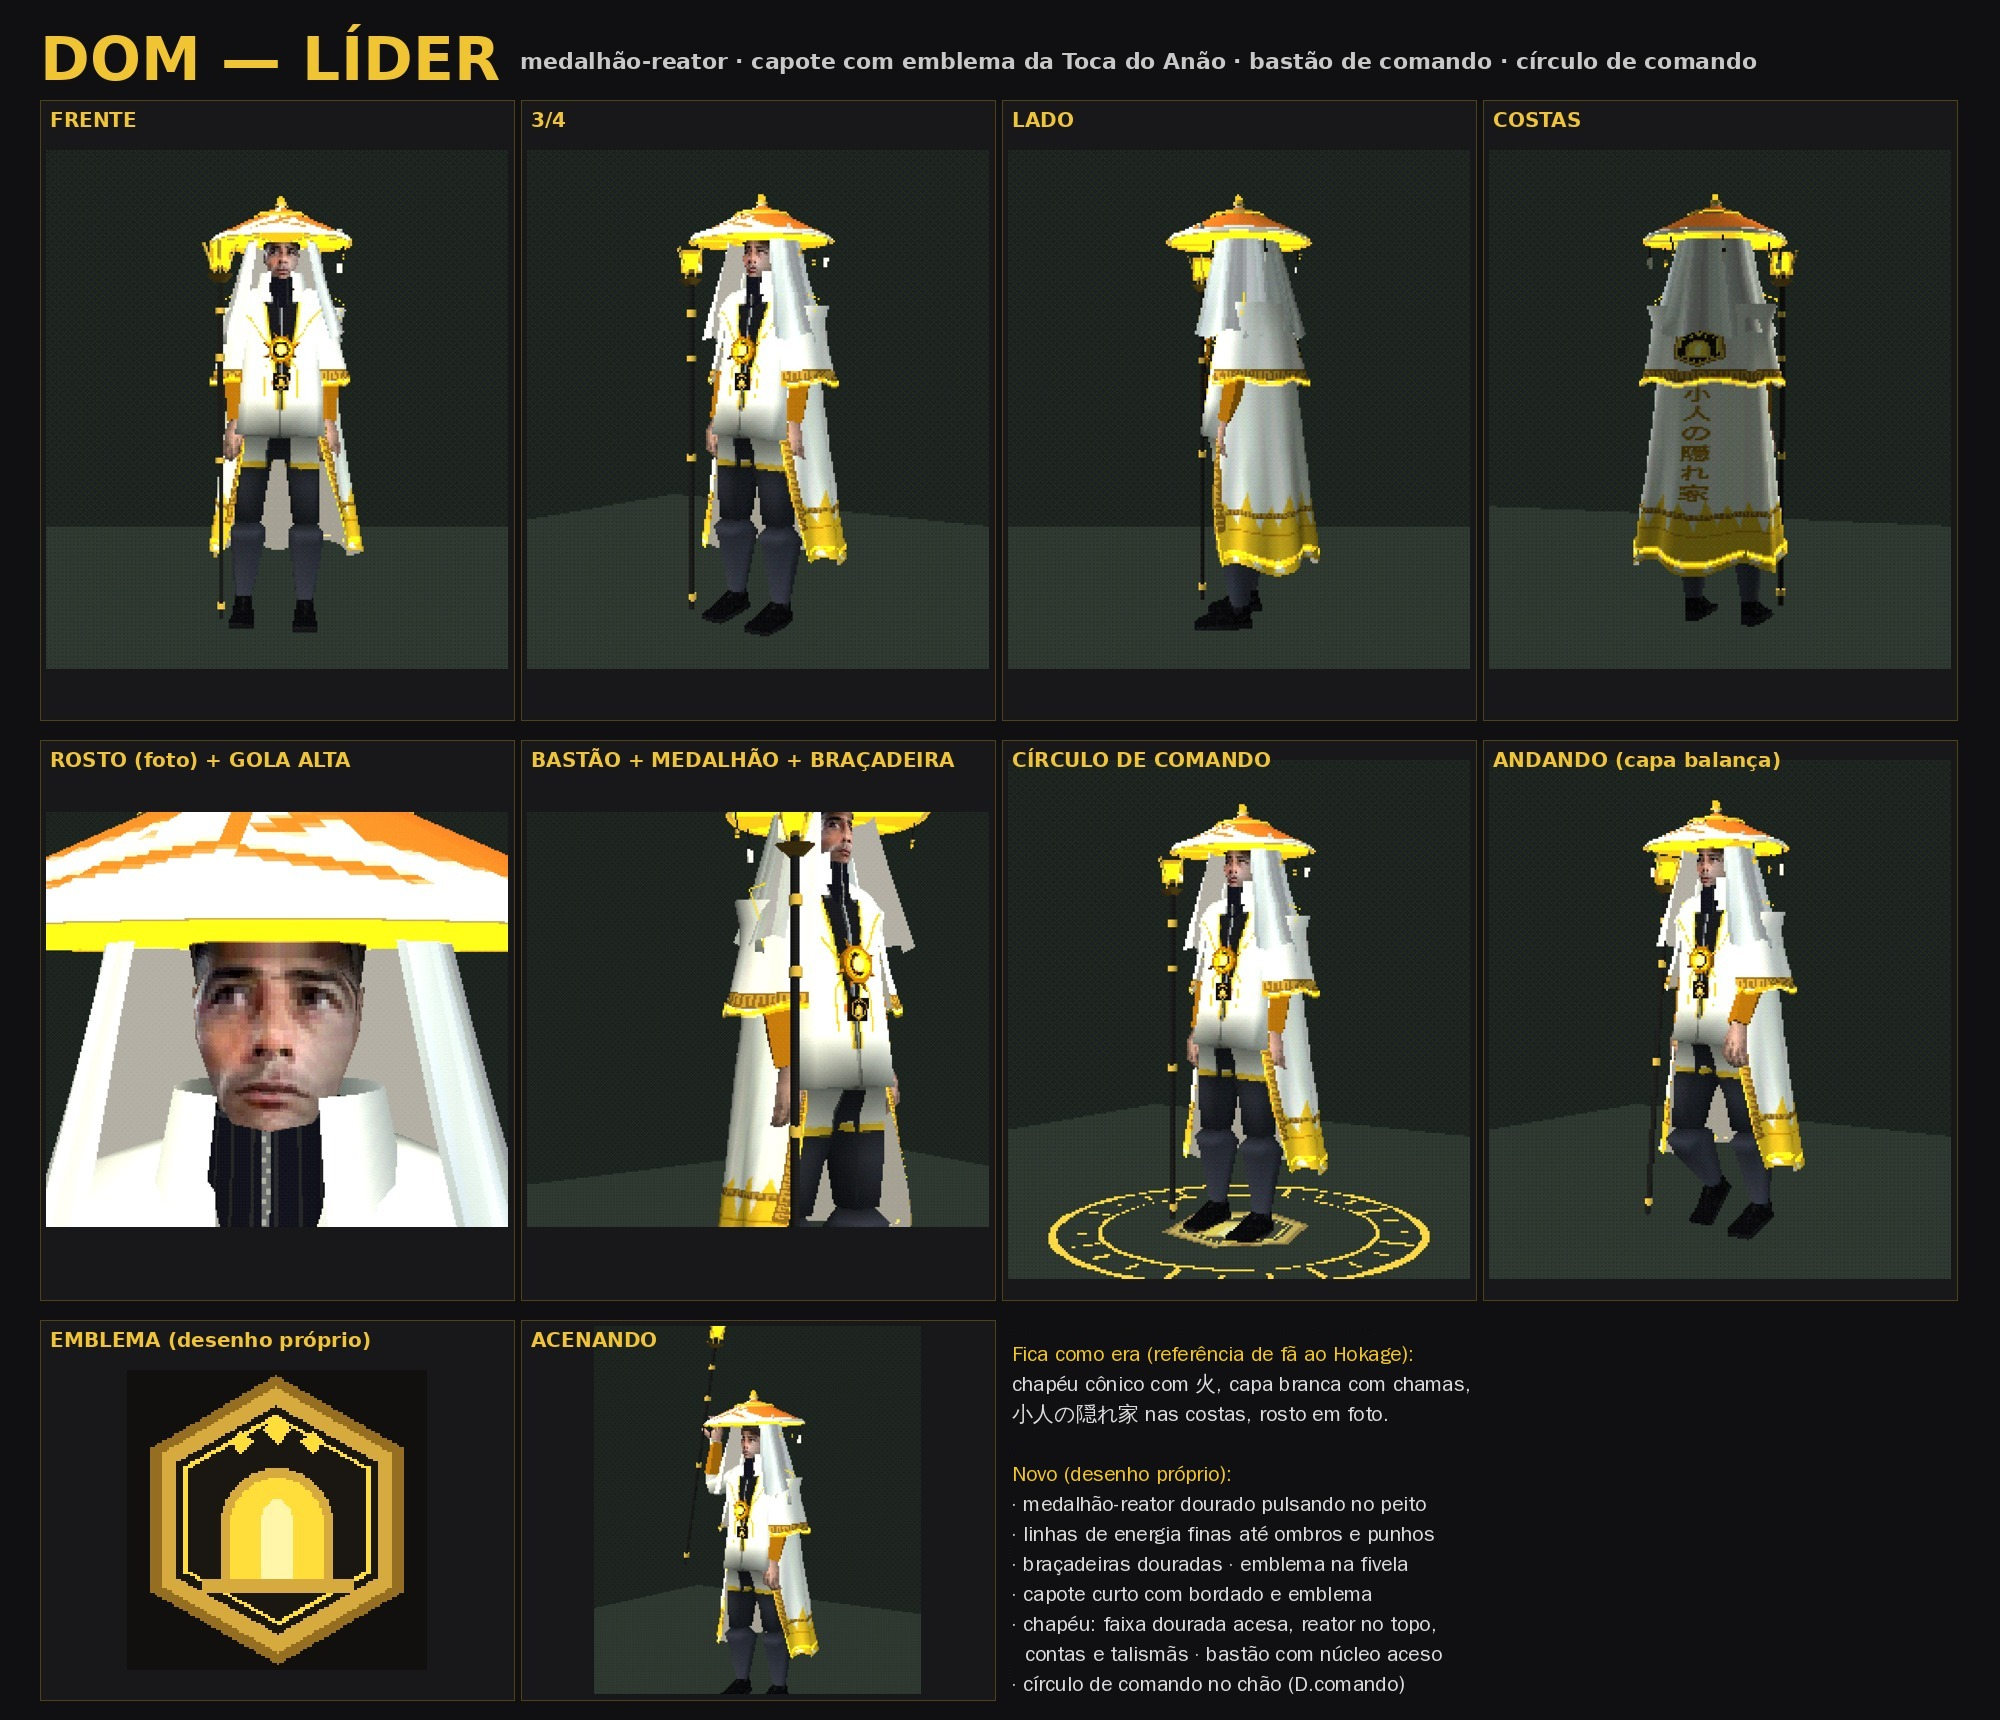
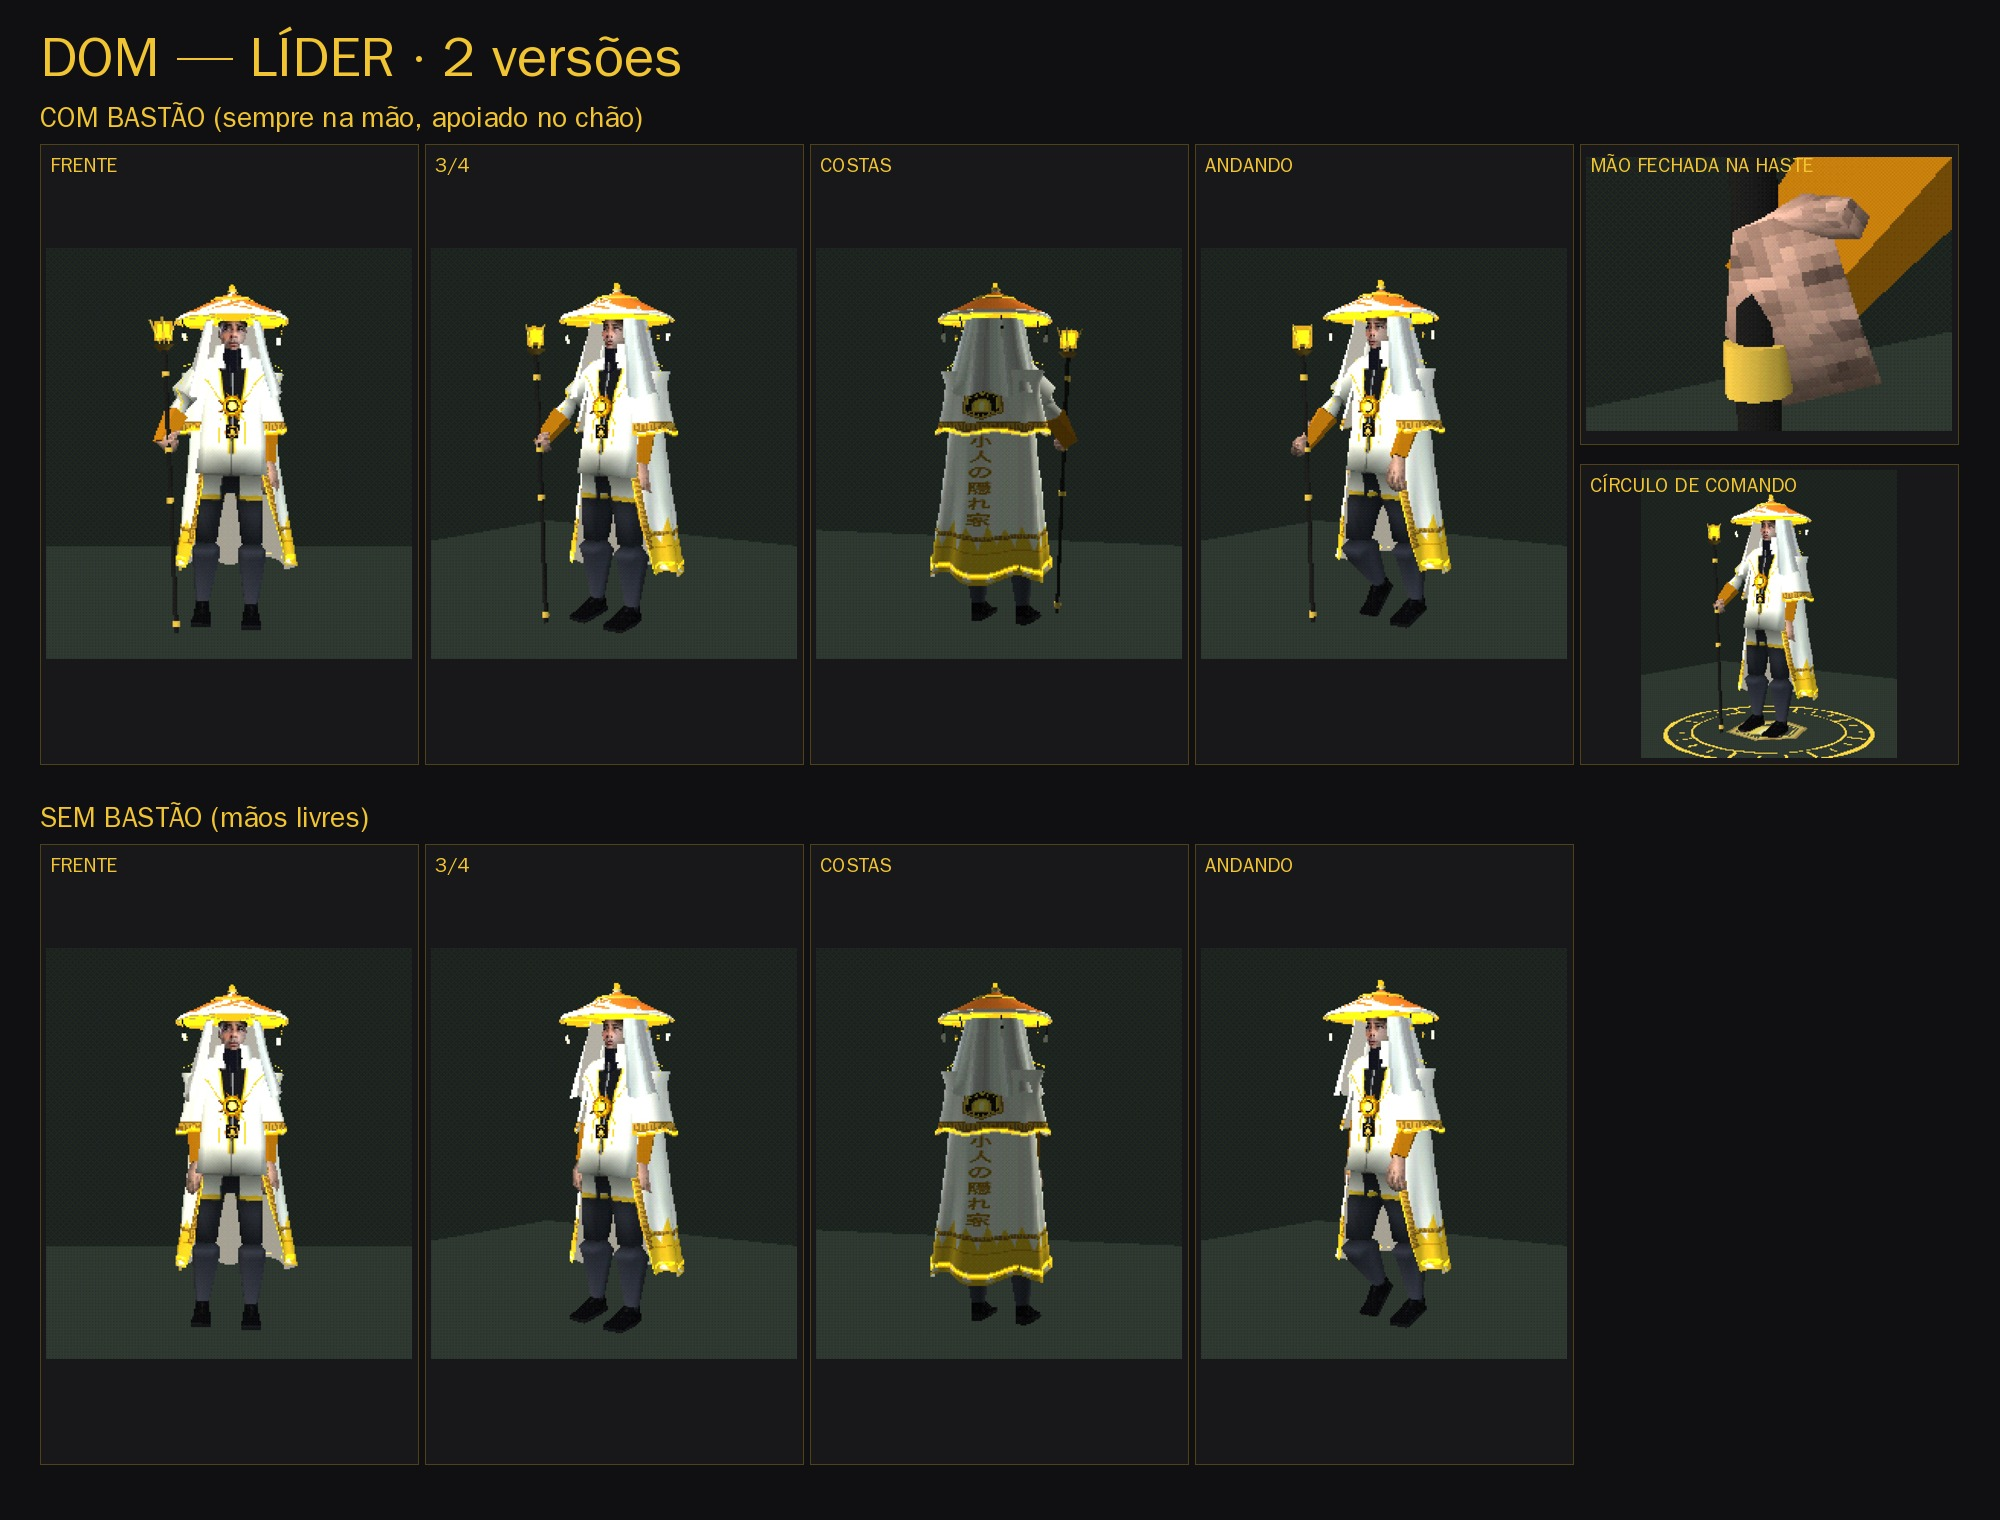
Dom: bastão sempre apoiado no chão e segurado (IK do braço direito + dedos fechados na haste); versões com e sem bastão
Claude-Session: https://claude.ai/code/session_01PVUNKmUDvaP2jpRAvnz1fM

diff --git a/lib/tgp.js b/lib/tgp.js
@@ -760,22 +760,57 @@ export async function acessoriosDom(A, o = {}) {
     else pg.add(P.cilindro(.006, .006, .01, AMB, { seg: 6, pos: [0, -.09, 0] }));                      // conta acesa
     pend.push([pg, a]);
   }
-  // BASTÃO DE COMANDO na mão direita: haste escura com anéis dourados, gaiola dourada e NÚCLEO ACESO no alto (+ aura)
-  let bastao = null;
+  // BASTÃO DE COMANDO: fica SEMPRE apoiado no chão, em pé ao lado do pé direito (preso no ator, anda junto com ele), e o BRAÇO DIREITO
+  // é posto nele a cada quadro (IK de 2 ossos: ombro→cotovelo→punho; mão com o polegar pra cima e os dedos fechados em volta da haste).
+  // { bastao: false } = versão sem bastão (mãos livres).
+  let bastao = null, segurar = null;
   if (o.bastao !== false) {
-    const mao = A.osso('hand.R'), pm = mao.getWorldPosition(new THREE.Vector3()); bastao = new THREE.Group();
-    const H = 1.55, base = -H * .56;
-    bastao.add(P.cilindro(.014, .012, H, ESC, { seg: 8, pos: [0, base + H / 2, 0] }));
-    for (const y of [base + .06, base + H * .45, base + H * .74, base + H - .2]) bastao.add(P.cilindro(.02, .02, .03, OURO, { seg: 8, pos: [0, y, 0] }));
-    const topo_ = base + H;
-    for (let k = 0; k < 4; k++) { const a = k * Math.PI / 2; const hs = P.cilindro(.006, .006, .16, OURO, { seg: 4, pos: [.045 * Math.cos(a), topo_ + .02, .045 * Math.sin(a)] }); hs.rotation.z = -.35 * Math.cos(a); hs.rotation.x = .35 * Math.sin(a); bastao.add(hs); }
-    bastao.add(P.cilindro(.06, .02, .03, OURO2, { seg: 8, pos: [0, topo_ - .06, 0] }));
-    const nuc = P.cilindro(.035, .035, .07, AMB, { seg: 10, pos: [0, topo_ + .03, 0] }), aur = P.cilindro(.055, .055, .11, AAU, { seg: 10, pos: [0, topo_ + .03, 0] });
-    bastao.add(nuc, aur); bastao.nucleo = aur;
-    const fora = pm.clone().sub(A.obj.position).setY(0); fora.sub(new THREE.Vector3(0, 0, 0)); const lado = fora.length() > 1e-4 ? fora.normalize() : new THREE.Vector3(-1, 0, 0);
-    const frente = new THREE.Vector3(Math.sin(A.obj.rotation.y), 0, Math.cos(A.obj.rotation.y));
-    bastao.position.copy(pm).addScaledVector(lado, .07).addScaledVector(frente, .09); bastao.rotation.y = A.obj.rotation.y;   // fora da capa, na frente da mão
-    A.obj.parent.add(bastao); mao.attach(bastao);
+    const raiz = A.obj, V = (x, y, z) => new THREE.Vector3(x, y, z), Q = () => new THREE.Quaternion();
+    const ombro = A.osso('upper_arm.R'), coto = A.osso('forearm.R'), mao = A.osso('hand.R'), polegar = A.osso('thumb.01.R');
+    raiz.updateMatrixWorld(true);
+    const ladoX = Math.sign(raiz.worldToLocal(ombro.getWorldPosition(V())).x) || -1;      // de que lado (x local do ator) fica a mão direita
+    const H = 1.6; bastao = new THREE.Group();
+    bastao.add(P.cilindro(.014, .012, H, ESC, { seg: 8, pos: [0, H / 2, 0] }));
+    for (const y of [.05, H * .45, H * .62, H - .2]) bastao.add(P.cilindro(.02, .02, .03, OURO, { seg: 8, pos: [0, y, 0] }));
+    for (let k = 0; k < 4; k++) { const a = k * Math.PI / 2; const hs = P.cilindro(.006, .006, .16, OURO, { seg: 4, pos: [.045 * Math.cos(a), H + .02, .045 * Math.sin(a)] }); hs.rotation.z = -.35 * Math.cos(a); hs.rotation.x = .35 * Math.sin(a); bastao.add(hs); }
+    bastao.add(P.cilindro(.06, .02, .03, OURO2, { seg: 8, pos: [0, H - .06, 0] }));
+    const aur = P.cilindro(.055, .055, .11, AAU, { seg: 10, pos: [0, H + .03, 0] }); bastao.add(P.cilindro(.035, .035, .07, AMB, { seg: 10, pos: [0, H + .03, 0] }), aur); bastao.nucleo = aur;
+    const xo = Math.abs(raiz.worldToLocal(ombro.getWorldPosition(V())).x);
+    bastao.position.set(ladoX * (xo + .11), 0, .27); bastao.rotation.z = -ladoX * .04; raiz.add(bastao);   // levemente inclinado pra fora
+    const ALT_PEGA = 1.0;
+    // eixo do polegar no espaço local da mão (pra torcer a mão com o polegar pra cima)
+    raiz.updateMatrixWorld(true); const tl = mao.worldToLocal(polegar.getWorldPosition(V())); const eixoPol = V(tl.x, 0, tl.z).normalize();
+    const DEDOS = ['f_index', 'f_middle', 'f_ring', 'f_pinky'].flatMap(f => ['01', '02', '03'].map(n => A.osso(`${f}.${n}.R`))).filter(Boolean);
+    let sinal = 0;
+    const qMundo = b => b.getWorldQuaternion(Q());
+    const apontar = (b, dir) => { b.updateMatrixWorld(true); const qw = qMundo(b), y = V(0, 1, 0).applyQuaternion(qw);
+      const nw = Q().setFromUnitVectors(y, dir.clone().normalize()).multiply(qw); b.quaternion.copy(qMundo(b.parent).invert().multiply(nw)); b.updateMatrixWorld(true); };
+    const torcer = (b, eixo, alvo) => { b.updateMatrixWorld(true); const qw = qMundo(b), y = V(0, 1, 0).applyQuaternion(qw), e = eixo.clone().applyQuaternion(qw).projectOnPlane(y).normalize(), a = alvo.clone().projectOnPlane(y).normalize();
+      b.rotateOnAxis(V(0, 1, 0), Math.atan2(y.dot(V().crossVectors(e, a)), e.dot(a))); b.updateMatrixWorld(true); };
+    segurar = () => {
+      raiz.updateMatrixWorld(true);
+      const up = V(0, 1, 0), fr = V(0, 0, 1).applyQuaternion(raiz.getWorldQuaternion(Q())), dentro = V(-ladoX, 0, 0).applyQuaternion(raiz.getWorldQuaternion(Q()));
+      const G = bastao.localToWorld(V(0, ALT_PEGA, 0));                                         // ponto da pega na haste
+      const Yd = fr.clone().multiplyScalar(.75).addScaledVector(dentro, .66).normalize();      // dedos pra frente e pra dentro
+      let palma = V().crossVectors(up, Yd); if (palma.dot(dentro) < 0) palma.negate();
+      const S = ombro.getWorldPosition(V()), E0 = coto.getWorldPosition(V()), W0 = mao.getWorldPosition(V());
+      const a = S.distanceTo(E0), b = E0.distanceTo(W0), escala = (a + b) / .577;               // .577 = braço+antebraço no modelo base
+      const W = G.clone().addScaledVector(Yd, -.068 * escala).addScaledVector(palma, -.018 * escala).addScaledVector(up, .012 * escala);   // a haste passa no meio da mão fechada
+      const dv = W.clone().sub(S); let d = dv.length(); d = Math.min(d, (a + b) * .999); const n = dv.normalize();
+      const polo = V().addScaledVector(dentro, -.7).addScaledVector(fr, -.5).addScaledVector(up, -.3).projectOnPlane(n).normalize();
+      const cosA = (a * a + d * d - b * b) / (2 * a * d), E = S.clone().addScaledVector(n, a * cosA).addScaledVector(polo, a * Math.sqrt(Math.max(0, 1 - cosA * cosA)));
+      apontar(ombro, E.clone().sub(S)); apontar(coto, S.clone().addScaledVector(n, d).sub(coto.getWorldPosition(V())));
+      apontar(mao, Yd); torcer(mao, eixoPol, up);
+      if (!sinal) {                                                                              // descobre pra que lado os dedos dobram (pra palma)
+        const f = A.osso('f_middle.01.R'), t3 = A.osso('f_middle.03.R'), q0 = f.quaternion.clone();
+        f.rotateOnAxis(V(1, 0, 0), .6); f.updateMatrixWorld(true); const p1 = t3.getWorldPosition(V()).distanceTo(G);
+        f.quaternion.copy(q0); f.rotateOnAxis(V(1, 0, 0), -.6); f.updateMatrixWorld(true); const p2 = t3.getWorldPosition(V()).distanceTo(G);
+        f.quaternion.copy(q0); f.updateMatrixWorld(true); sinal = p1 < p2 ? 1 : -1;
+      }
+      for (const dd of DEDOS) { const k = /\.01\./.test(dd.name) ? 1.25 : /\.02\./.test(dd.name) ? 1.45 : 1.15; dd.quaternion.copy(A.bind ? (A.bind(dd) ?? dd.quaternion) : dd.quaternion); dd.rotateOnAxis(V(1, 0, 0), sinal * k); }
+      if (polegar) { polegar.rotateOnAxis(V(1, 0, 0), sinal * .5); }
+      raiz.updateMatrixWorld(true);
+    };
   }
   // CÍRCULO DE COMANDO no chão (liga com D.comando(0..1)): 2 anéis, 24 marcas, emblema no centro, gira devagar (mistura aditiva)
   const circ = new THREE.Group(); circ.position.set(A.obj.position.x, .012, A.obj.position.z); A.obj.parent.add(circ);
@@ -792,7 +827,7 @@ export async function acessoriosDom(A, o = {}) {
     atualizarCapote(t);
     const pul = .82 + .18 * Math.sin(t * 2.4); for (const [mt, c0] of pulsantes) mt.uniforms.uCor.value.copy(c0).multiplyScalar(pul);
     for (const [pg, a] of pend) { pg.rotation.x = Math.sin(t * 1.6 + a) * .12; pg.rotation.z = Math.cos(t * 1.3 + a) * .08; }
-    if (bastao) bastao.nucleo.scale.setScalar(.9 + .15 * Math.sin(t * 3.1));
+    if (bastao) { bastao.nucleo.scale.setScalar(.9 + .15 * Math.sin(t * 3.1)); segurar(); }
     circ.visible = comando > 0; circ.rotation.y = t * .25; circ.scale.setScalar(.6 + .4 * comando); CA.uniforms.uOpac.value = .8 * comando;
   };
   if (o.semVeu) { g.visible = false; capaG.visible = false; }                    // inspeção da cabeça (sem chapéu, véu e capa)

diff --git a/videos/98-dom/index.html b/videos/98-dom/index.html
@@ -20,8 +20,10 @@ window.SETUP = async () => {
   else { D = await T.dom(); S.scene.add(D.obj); c = D.corpo; c.braco('L', [.18, -1, -.02], [.1, -1, .12], [0, -1, .1]); c.braco('R', [-.18, -1, -.02], [-.1, -1, .12], [0, -1, .1]); c.guardar(); D.assentar(); }
   const b = new THREE.Box3().setFromObject(jashi ? A.obj : D.obj), h = b.max.y, cab = jashi ? A.osso('spine.005').getWorldPosition(new THREE.Vector3()).add(new THREE.Vector3(0, .1, 0)) : D.cabeca.getWorldPosition(new THREE.Vector3());
   const V = { frente: [0, h * .55, 4.4, 0, h * .5, 0, 30], tres: [2.5, h * .62, 3.6, 0, h * .5, 0, 30], lado: [4.4, h * .55, 0, 0, h * .5, 0, 30],
-    costas: [-1.2, h * .6, -4.2, 0, h * .5, 0, 30], mao: [-1.6, h * .55, 1.9, -.25, h * .55, 0, 30], rosto: [cab.x + .1, cab.y + .02, cab.z + .9, cab.x, cab.y - .02, cab.z, 24] }[q.get('v') || 'frente'];
+    costas: [-1.2, h * .6, -4.2, 0, h * .5, 0, 30], mao: [-1.6, h * .55, 1.9, -.25, h * .55, 0, 30], pega: [0, 1, 1, 0, 1, 0, 30], rosto: [cab.x + .1, cab.y + .02, cab.z + .9, cab.x, cab.y - .02, cab.z, 24] }[q.get('v') || 'frente'];
+  const hp = () => A.osso('hand.R').getWorldPosition(new THREE.Vector3());
   S.update = t => { if (jashi) { A.pose(q.get('clip') || 'idle', t); D?.atualizar?.(t, { pisca: (t % 3.2) > 3.05 ? 1 : 0 }); } else { c.repor(); D.assentar(); D.animar(t, { pisca: (t % 3.2) > 3.05 ? 1 : 0 }); }
+    if (q.get('v') === 'pega') { const p = hp(); const ang = +(q.get('ang') || 0); V.splice(0, 7, p.x - .35 * Math.cos(ang) + .45 * Math.sin(ang), p.y + .12, p.z + .45 * Math.cos(ang) + .35 * Math.sin(ang), p.x, p.y, p.z, 30); }
     if (!q.get('cam')) { S.camera.fov = V[6]; S.camera.position.set(V[0], V[1], V[2]); S.camera.lookAt(V[3], V[4], V[5]); S.camera.updateProjectionMatrix(); } };
   window.D = D;
 };

diff --git a/material/producao/personagens/dom/LEIA.md b/material/producao/personagens/dom/LEIA.md
@@ -35,6 +35,8 @@ A referência de fã ao Hokage (chapéu cônico com 火, capa branca com chamas,
 - Emblema da Toca do Anão (`tools/dom_emblema.py`): porta em arco de toca acesa, 3 pedras, hexágono dourado → `texturas/emblema*.png`.
 - No motor (`acessoriosDom`): capote curto nos ombros (bordado grego dourado, emblema nas costas, barra acesa), bordado dourado nas bordas
   da capa, chapéu com faixa dourada acesa, reator no topo, contas e talismãs balançando; BASTÃO DE COMANDO na mão direita (anéis
-  dourados, gaiola, núcleo aceso pulsando; `{ bastao: false }` tira); CÍRCULO DE COMANDO no chão (`D.comando(0..1)`; folha: `?comando=1`).
+  dourados, gaiola, núcleo aceso pulsando) SEMPRE APOIADO NO CHÃO ao lado do pé direito (preso no ator) e o braço direito posto nele a
+  cada quadro (IK de 2 ossos ombro→cotovelo→punho, mão com o polegar pra cima, dedos fechados na haste) em todas as animações;
+  2 versões: com bastão (padrão) e sem bastão (`{ bastao: false }`, folha `?bastao=0`; close da mão: `?v=pega&ang=1.6`); CÍRCULO DE COMANDO no chão (`D.comando(0..1)`; folha: `?comando=1`).
   O medalhão do GLB pulsa (materiais `d_nucleo_brilho`/`d_aura`).
 - Folha: `folha_dom_lider.jpg` (videos/98-dom: `?v=frente|tres|lado|costas|mao|rosto&comando=1&clip=...`).
